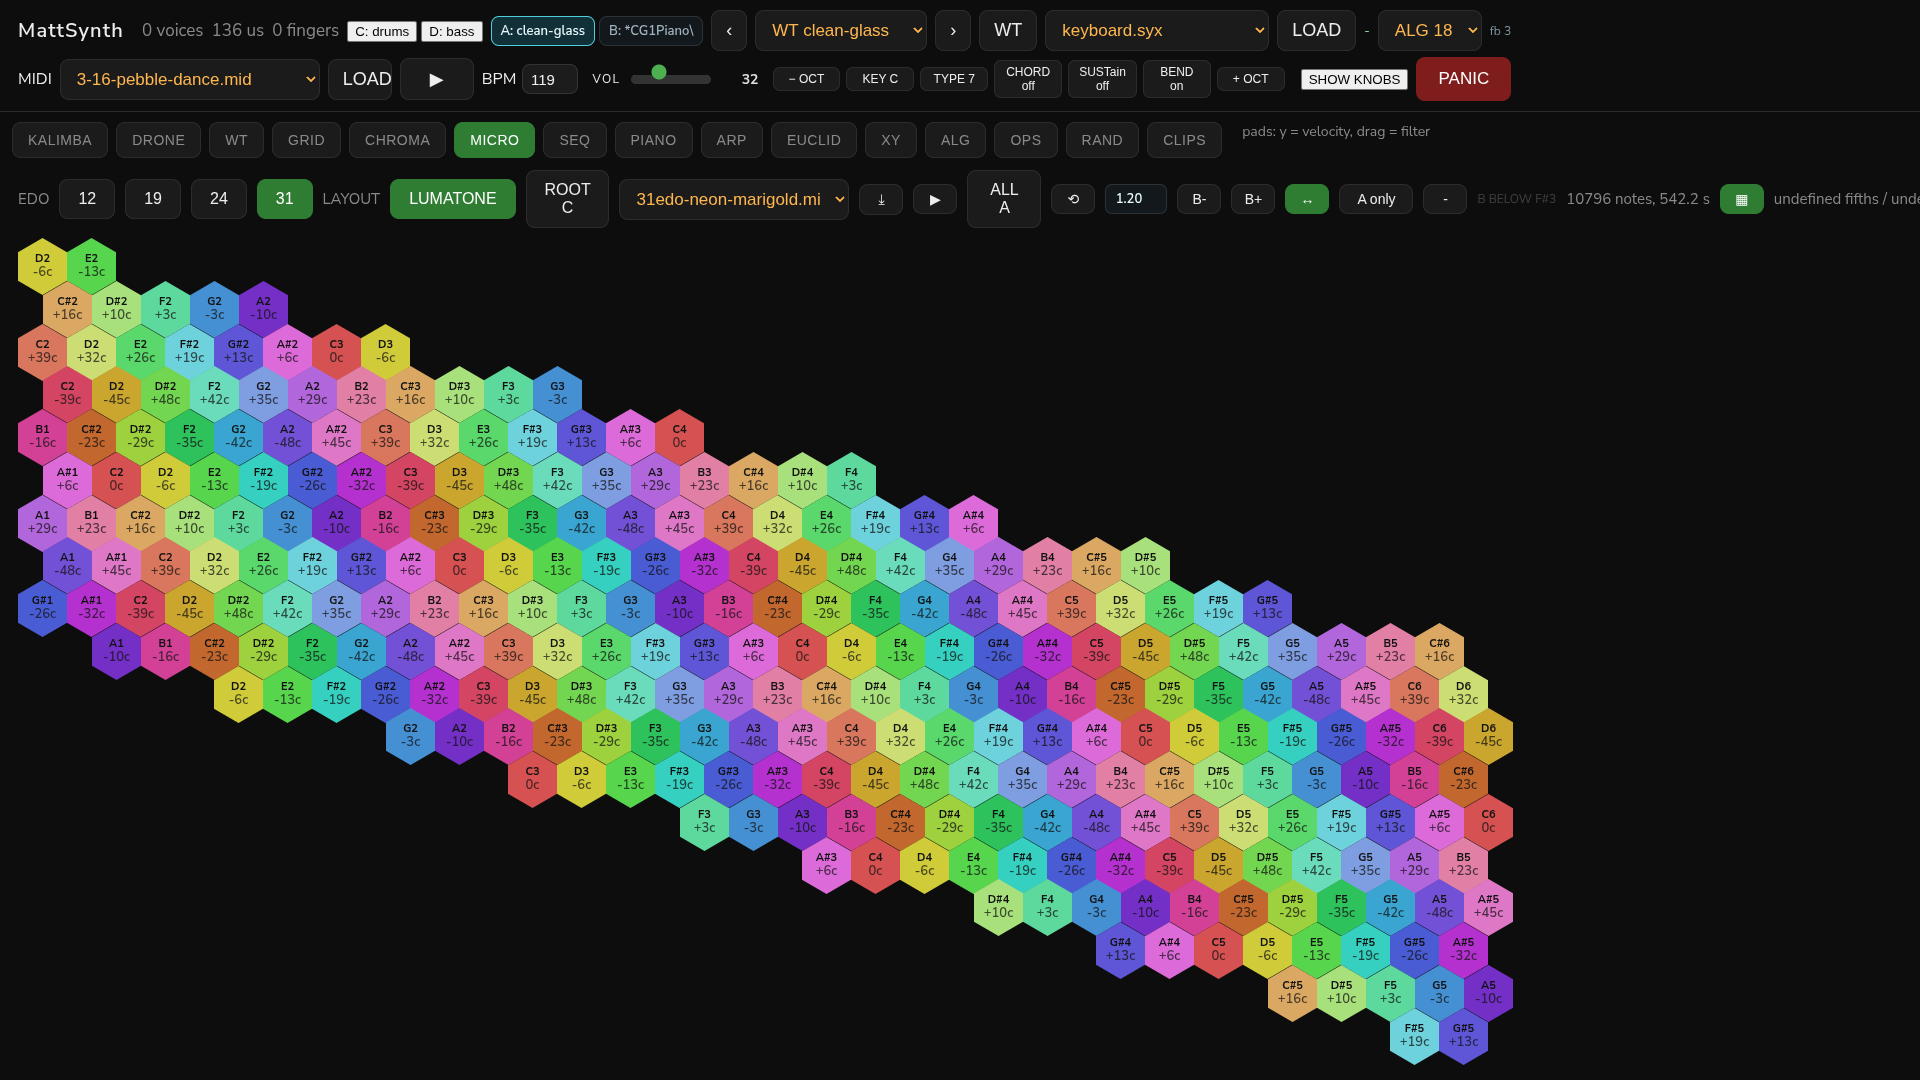
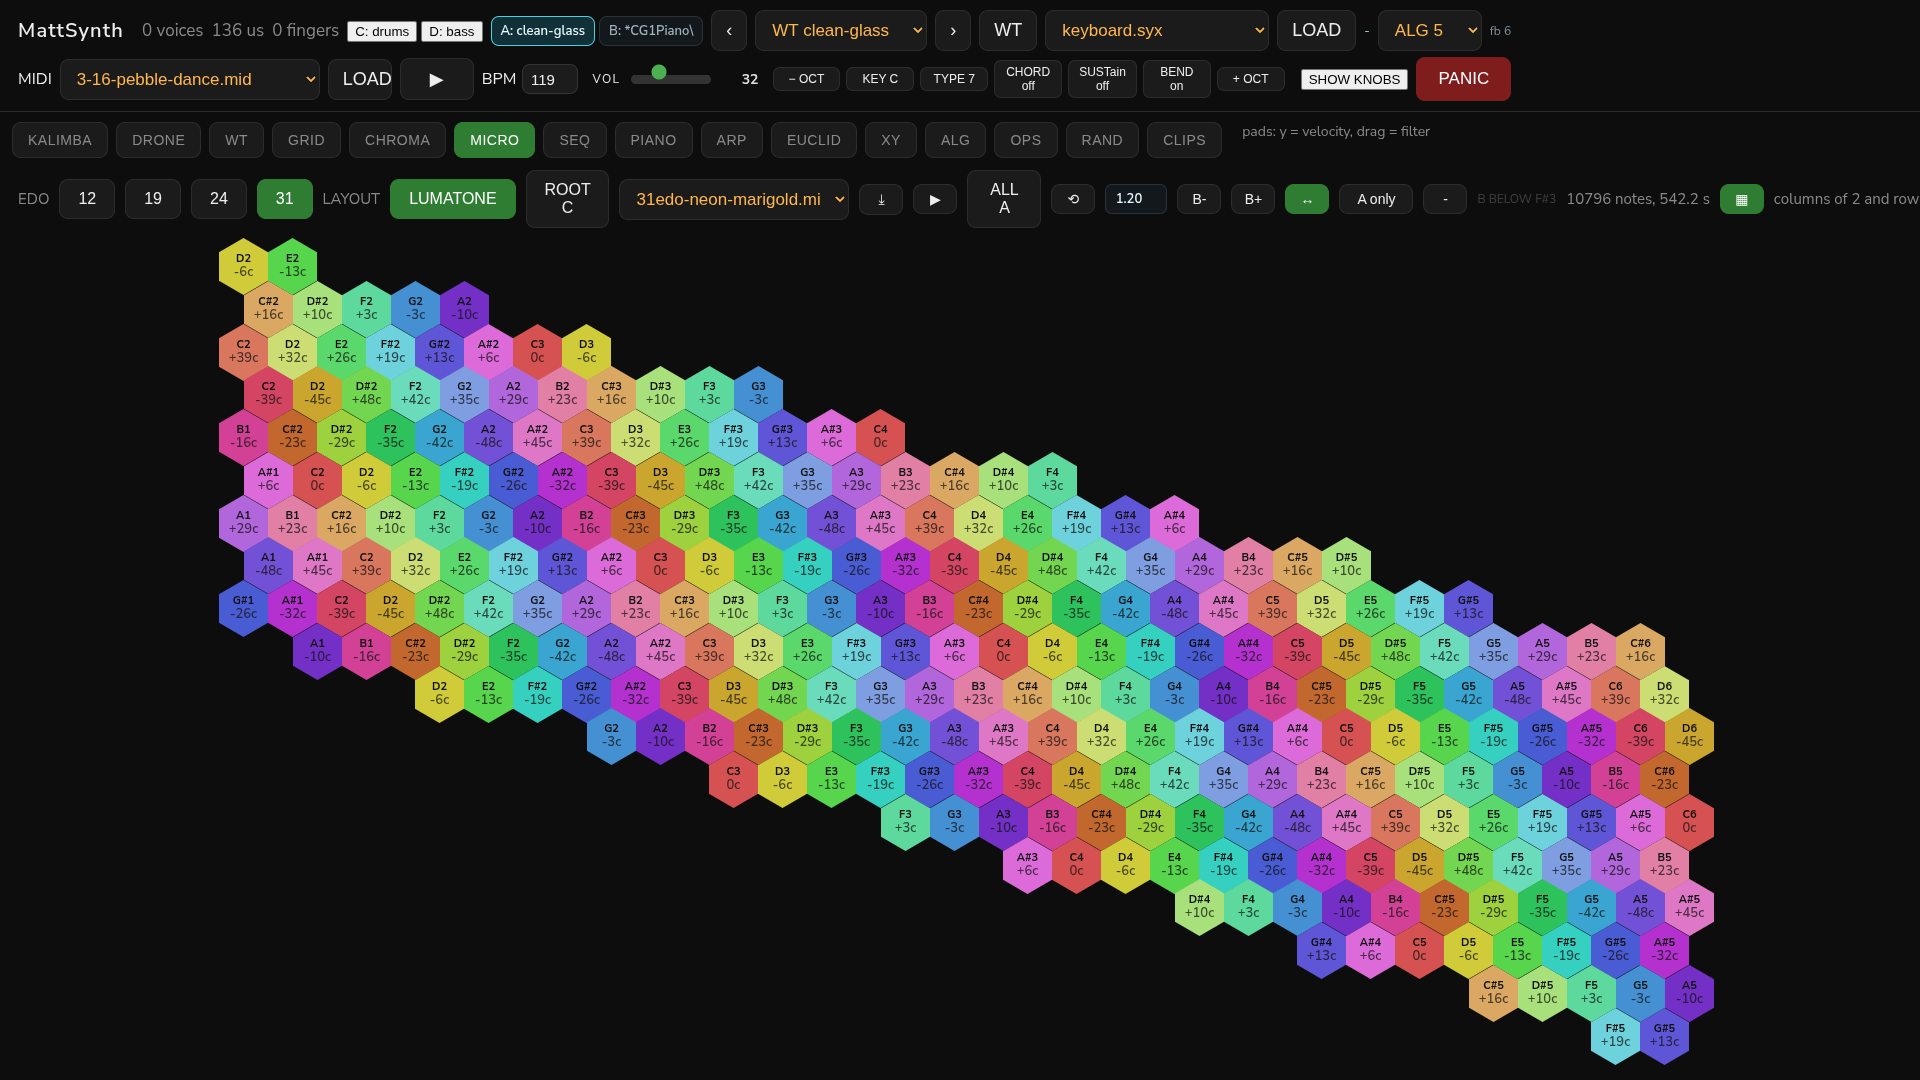
micro: center the board and use the stage
The grid had lost its own width and offsets during the layout rewrites, so the keys
were positioned against the stage and hugged the left edge. It now sizes itself,
centers on both axes and fills the height of the stage.

diff --git a/panel/panel_ui.py b/panel/panel_ui.py
@@ -4203,6 +4203,13 @@ function hexGrid(container){
     const h = Math.round(w * 2 / Math.sqrt(3));       /* pointy-top hexagon */
     const vpitch = h * 0.75;
     const gridH = Math.round((ROWS - 1) * vpitch + h);
+    const gridW = Math.round(MAXC * w + w / 2);
+    grid.style.height = gridH + "px";
+    grid.style.width = gridW + "px";
+    grid.style.position = "relative";
+    /* the silhouette is a leaning block of 280 keys, so centre its bounding box */
+    grid.style.marginLeft = Math.max(0, Math.round((availW - gridW) / 2)) + "px";
+    grid.style.marginTop = Math.max(0, Math.round((availH - gridH) / 2)) + "px";
     grid.__keys = [];
     for(let r = 0; r < ROWS; r++){
       const x0 = SIZES[r][0], len = SIZES[r][1];
